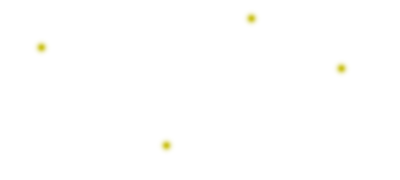
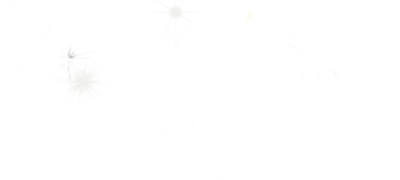
updated background images and changed background colour on heaven and grass

diff --git a/style/master.css b/style/master.css
@@ -1,7 +1,7 @@
 html {
 	background: url('../img/heaven.png') repeat-x #00d8ff;
-	background: -webkit-gradient(linear, left top, left bottom, from(#000), to(#00d8ff));
-	background: -moz-linear-gradient(270deg, #000, #00d8ff);
+	background: -webkit-gradient(linear, left top, left bottom, from(#000), to(#b6f3fa));
+	background: -moz-linear-gradient(270deg, #000, #b6f3fa);
 
 	/*height: 100%;*/
 	width: 100%;
@@ -219,6 +219,8 @@ a:hover {
 #footer {
 	width: 100%;
 	background: #52910E;
+	background: -moz-linear-gradient(270deg, #52910e, #324f13);
+	background: -webkit-gradient(linear, left top, left bottom, from(#52910e), to(#324f13));
 	height: 100px;
 }
 
